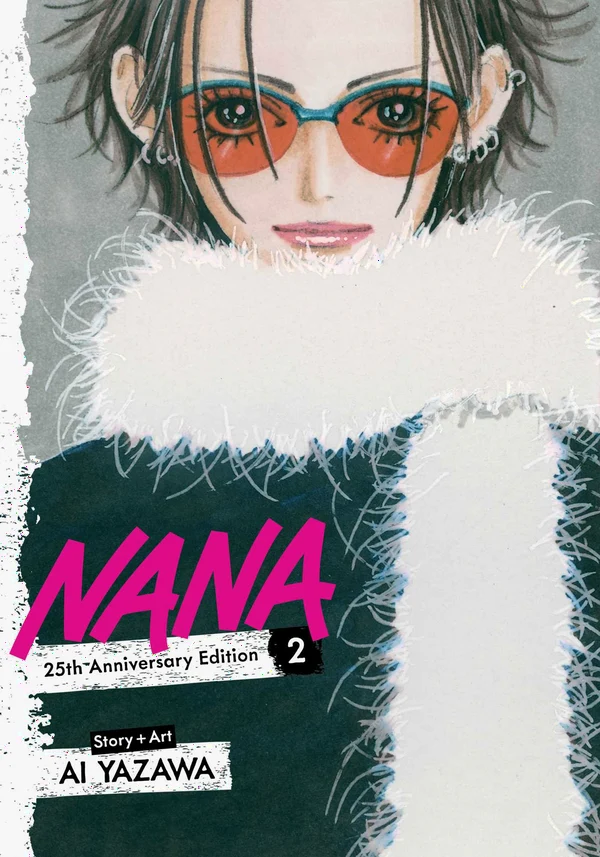
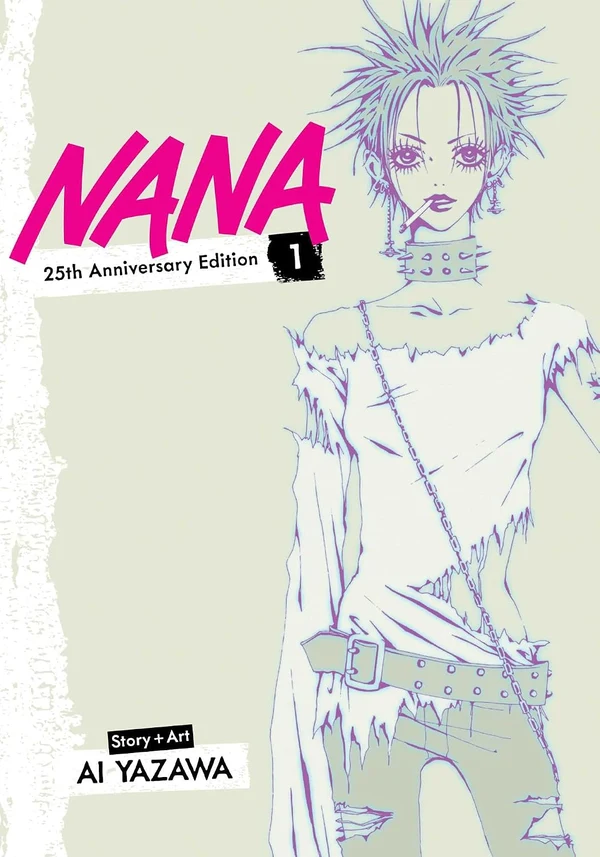
Make it a friend's issue, vary every image, and end on the letter

diff --git a/src/content.ts b/src/content.ts
@@ -6,22 +6,22 @@
  */
 export const site = {
   /** Shown in big type in the hero, the letter, the footer and the tab title. */
-  recipient: 'Sis',
+  recipient: 'Friend',
   /** A line that runs under the name. */
-  relationship: 'my sister, my first friend',
+  relationship: 'my friend, my chosen family',
   year: '2026',
   issue: 'A birthday scrapbook',
 };
 
 export const letter = {
-  greeting: 'Dear sister,',
+  greeting: 'Dear friend,',
   paragraphs: [
     'There is a particular kind of luck in finding someone who feels like a book you have read a hundred times and still dog-ear on purpose. You are that for me: the worn page, the margin note, the line I keep coming back to.',
     'So I made you a small corner of the internet. Part commonplace book, part cabinet of curiosities, entirely yours. There are poets here who say it better than I can, a fictional apothecary with a sharp tongue, a wall of ice with a warm room behind it, two girls who share a name and a heartbeat, and a stage where nobody sings quietly.',
     'Happy birthday. May this year be gentle with you. May you be a little reckless with your joy. And may you always, always know where home is.',
   ],
   closing: 'I love you more than the last page of a good book.',
-  signature: 'your sister',
+  signature: 'your friend',
   envelope: {
     to: ['the birthday girl', 'somewhere warm'],
     from: 'me, with cake',
@@ -46,8 +46,8 @@ export const quotes: Quote[] = [
     author: 'Sylvia Plath',
     source: 'The Bell Jar',
     note: 'for every morning you have to remind yourself that you are still here — and still yours.',
-    portrait: '/art/plath.webp',
-    portraitAlt: 'Sylvia Plath, smiling and holding a flower.',
+    portrait: '/art/plath-book.webp',
+    portraitAlt: 'A black-and-white portrait of Sylvia Plath.',
   },
   {
     label: 'dog-eared, no. 02',
@@ -55,7 +55,7 @@ export const quotes: Quote[] = [
     author: 'Jane Austen',
     source: 'Emma',
     note: 'the softest thing about you has always been the strongest thing about you.',
-    portrait: '/art/austen.webp',
+    portrait: '/art/austen-book.webp',
     portraitAlt: 'A portrait of Jane Austen.',
   },
   {
@@ -64,7 +64,7 @@ export const quotes: Quote[] = [
     author: 'Fyodor Dostoevsky',
     source: 'The Idiot',
     note: 'evidence: you exist.',
-    portrait: '/art/dostoevsky.webp',
+    portrait: '/art/dostoevsky-book.webp',
     portraitAlt: 'A portrait of Fyodor Dostoevsky by Vasily Perov.',
   },
 ];
@@ -171,5 +171,5 @@ export const wish = {
     'Wish received. The universe has been notified. (It’s a little scared of you.)',
   signoff:
     'Here’s to another year of you — the whole loud, tender, impossible thing.',
-  signature: 'with all my love, your sister',
+  signature: 'with all my love, your friend',
 };

diff --git a/index.html b/index.html
@@ -5,10 +5,10 @@
     <meta name="viewport" content="width=device-width, initial-scale=1.0" />
     <meta name="theme-color" content="#9b5530" />
     <meta name="robots" content="noindex, nofollow" />
-    <title>Happy Birthday, Sis — A Scrapbook</title>
+    <title>Happy Birthday, Friend — A Scrapbook</title>
     <meta
       name="description"
-      content="A birthday scrapbook of poets, apothecaries, ice walls, punk hearts, and one very bright stage — for my sister, my first friend."
+      content="A birthday scrapbook of poets, apothecaries, ice walls, punk hearts, and one very bright stage — for my friend, my chosen family."
     />
     <link rel="icon" href="/favicon.svg" type="image/svg+xml" />
     <link rel="preconnect" href="https://fonts.googleapis.com" />
@@ -18,10 +18,10 @@
       rel="stylesheet"
     />
     <meta property="og:type" content="website" />
-    <meta property="og:title" content="Happy Birthday, Sis — A Scrapbook" />
+    <meta property="og:title" content="Happy Birthday, Friend — A Scrapbook" />
     <meta
       property="og:description"
-      content="Poets, apothecaries, ice walls, punk hearts, and one very bright stage. A birthday scrapbook for my sister."
+      content="Poets, apothecaries, ice walls, punk hearts, and one very bright stage. A birthday scrapbook for my friend."
     />
     <meta property="og:image" content="/og.jpg" />
     <meta property="og:image:width" content="2400" />
@@ -33,7 +33,7 @@
     <noscript>
       <div style="min-height:100vh;display:grid;place-items:center;padding:2rem;background:#9b5530;color:#f4e8d0;font-family:Georgia,serif;text-align:center;">
         <div>
-          <p style="font-family:cursive;font-size:3rem;line-height:1;margin:0 0 1rem;">happy birthday, sis.</p>
+          <p style="font-family:cursive;font-size:3rem;line-height:1;margin:0 0 1rem;">happy birthday, friend.</p>
           <p style="max-width:28rem;line-height:1.6;margin:0 auto;">This little scrapbook needs JavaScript to turn the pages. The cake is still real. Go eat some.</p>
         </div>
       </div>

diff --git a/src/components/Hero.tsx b/src/components/Hero.tsx
@@ -5,7 +5,7 @@ const tiles = [
   { src: '/art/plath.webp', tint: '#b46b43', pos: 'center 24%' },
   { src: '/art/maomao.webp', tint: '#525d35', pos: 'center 18%' },
   { src: '/art/nana.webp', tint: '#8f302a', pos: 'center 32%' },
-  { src: '/art/alien-stage.webp', tint: '#3d6f6d', pos: 'center 32%' },
+  { src: '/art/alien-stage-hero.webp', tint: '#3d6f6d', pos: 'center 32%' },
   { src: '/art/austen.webp', tint: '#a98a5d', pos: 'center 28%' },
   { src: '/art/dostoevsky.webp', tint: '#4b2d22', pos: 'center 24%' },
 ];
@@ -31,16 +31,13 @@ export default function Hero() {
       </div>
 
       <p className="hero-v2-side" aria-hidden="true">
-        a birthday scrapbook <i>·</i> vol. 01 <i>·</i> for my sister
+        a birthday scrapbook <i>·</i> vol. 01 <i>·</i> for my friend
       </p>
 
       <div className="hero-v2-inner">
         <header className="hero-v2-head">
           <p className="hero-v2-overline">
-            <Spark /> For my sister, my first friend
-          </p>
-          <p className="hero-v2-issue">
-            Issue 01 <span>/</span> {site.year}
+            <Spark /> For {site.relationship}
           </p>
         </header>
 
@@ -84,7 +81,7 @@ export default function Hero() {
       </div>
 
       <div className="hero-v2-bottom">
-        <a className="hero-scroll" href="#letter">
+        <a className="hero-scroll" href="#book">
           <span>turn the page</span>
           <ArrowDoodle />
         </a>
@@ -94,13 +91,13 @@ export default function Hero() {
             <i>✦</i>
             <span>another trip around the sun</span>
             <i>✦</i>
-            <span>for my sister, my first friend</span>
+            <span>for my friend, my chosen family</span>
             <i>✦</i>
             <span>happy birthday</span>
             <i>✦</i>
             <span>another trip around the sun</span>
             <i>✦</i>
-            <span>for my sister, my first friend</span>
+            <span>for my friend, my chosen family</span>
             <i>✦</i>
           </div>
         </div>

diff --git a/src/components/Letter.tsx b/src/components/Letter.tsx
@@ -1,21 +1,22 @@
 import { letter, site } from '../content';
-import { WaxSeal } from './Ornaments';
+import { TornEdge, WaxSeal } from './Ornaments';
 
 export default function Letter() {
   return (
     <section className="letter-v2" id="letter">
+      <TornEdge color="var(--rust)" />
       <div className="letter-v2-photo">
         <img
-          src="/art/plath.webp"
-          alt="Sylvia Plath, smiling and holding a flower."
-          width="720"
-          height="900"
+          src="/art/plath-letter.webp"
+          alt="Sylvia Plath sitting on a stone wall, reading."
+          width="900"
+          height="885"
           loading="lazy"
         />
         <div className="letter-v2-wash" aria-hidden="true" />
 
         <p className="letter-v2-folio">
-          01 <span>/ the letter</span>
+          P.S. <span>/ the letter</span>
         </p>
 
         <blockquote className="letter-v2-photoquote">
@@ -34,8 +35,8 @@ export default function Letter() {
 
       <article className="letter-v2-paper">
         <header className="letter-v2-head">
-          <p className="kicker">01 — the letter</p>
-          <p className="letter-v2-meta">from my desk to yours · no. 01</p>
+          <p className="kicker">P.S. — the letter</p>
+          <p className="letter-v2-meta">the last word · after the cake</p>
         </header>
 
         <p className="letter-v2-date">on your birthday · {site.year}</p>
@@ -50,7 +51,7 @@ export default function Letter() {
 
         <p className="letter-v2-closing">{letter.closing}</p>
         <p className="letter-v2-signature">{letter.signature}</p>
-        <p className="letter-v2-ps">P.S. there is cake at the end. scroll responsibly.</p>
+        <p className="letter-v2-ps">P.P.S. I hope you saved me a slice of cake.</p>
 
         <WaxSeal className="letter-v2-seal" />
       </article>

diff --git a/src/components/Nana.tsx b/src/components/Nana.tsx
@@ -6,7 +6,7 @@ export default function Nana() {
     <section className="nana-v2" id="zine">
       <div className="nana-v2-paper">
         <header className="nana-v2-head">
-          <p className="kicker">05 — the zine</p>
+          <p className="kicker">04 — the zine</p>
           <p className="nana-v2-meta">{nana.reference}</p>
         </header>
 
@@ -75,10 +75,10 @@ export default function Nana() {
       <div className="nana-v2-photo">
         <img
           className="nana-v2-photo-bg"
-          src="/art/nana-print.webp"
-          alt="A halftone print of Nana Osaki and Nana Komatsu sharing a strawberry."
-          width="1000"
-          height="563"
+          src="/art/nana-photo.webp"
+          alt="A halftone print of Nana Osaki and Nana Komatsu on a Nana manga cover."
+          width="700"
+          height="1094"
           loading="lazy"
         />
         <div className="nana-v2-photo-wash" aria-hidden="true" />
@@ -105,12 +105,12 @@ export default function Nana() {
           <Tape className="tape--nana-cover-v2" />
           <img
             src="/art/nana-cover.webp"
-            alt="Nana Osaki on the cover of the Nana 25th anniversary edition, volume 2."
+            alt="Nana Osaki on the Nana 25th-anniversary edition cover, volume 1."
             width="600"
             height="857"
             loading="lazy"
           />
-          <figcaption>the original, vol. 02</figcaption>
+          <figcaption>the original, vol. 01</figcaption>
         </figure>
 
         <div className="setlist-card nana-v2-setlist">

diff --git a/src/components/Footer.tsx b/src/components/Footer.tsx
@@ -4,7 +4,7 @@ import { Spark, Tape, TornEdge } from './Ornaments';
 export default function Footer() {
   return (
     <footer className="footer">
-      <TornEdge color="var(--rust)" />
+      <TornEdge color="var(--paper-3)" />
       <div className="footer-ghost" aria-hidden="true" />
       <div className="container">
         <div className="footer-top">
@@ -32,7 +32,7 @@ export default function Footer() {
             made with love, tape, and a little bit of chaos
             <span> · {site.year}</span>
           </p>
-          <p className="footer-note">for my sister, my first friend</p>
+          <p className="footer-note">for my friend, my chosen family</p>
 
           <details className="credits">
             <summary>art, references &amp; a note on copyright</summary>

diff --git a/src/components/Nav.tsx b/src/components/Nav.tsx
@@ -2,17 +2,17 @@ import { useEffect, useState } from 'react';
 import { site } from '../content';
 
 const chapters = [
-  { id: 'letter', label: 'The Letter' },
   { id: 'book', label: 'The Book' },
   { id: 'garden', label: 'The Garden' },
   { id: 'wall', label: 'The Wall' },
   { id: 'zine', label: 'The Zine' },
   { id: 'stage', label: 'The Stage' },
   { id: 'wish', label: 'The Wish' },
+  { id: 'letter', label: 'The Letter' },
 ];
 
 export default function Nav() {
-  const [active, setActive] = useState('letter');
+  const [active, setActive] = useState('');
   const [scrolled, setScrolled] = useState(false);
   const [open, setOpen] = useState(false);
 

diff --git a/src/components/Stage.tsx b/src/components/Stage.tsx
@@ -67,7 +67,7 @@ export default function Stage() {
 
       <div className="stage-v2-inner">
         <header className="stage-v2-head">
-          <p className="kicker">06 — the stage</p>
+          <p className="kicker">05 — the stage</p>
           <div className="stage-v2-head-right">
             <p className="stage-v2-meta">{stageContent.reference}</p>
             <p className="stage-v2-tagline">{stageContent.tagline}</p>

diff --git a/src/components/Ornaments.tsx b/src/components/Ornaments.tsx
@@ -180,7 +180,7 @@ export function StarStamp({ className = '' }: { className?: string }) {
         fontSize="8"
         letterSpacing="2.4"
       >
-        FOR MY SISTER
+        FOR MY FRIEND
       </text>
     </svg>
   );
@@ -208,7 +208,7 @@ export function WaxSeal({ className = '' }: { className?: string }) {
         fontSize="27"
         fontStyle="italic"
       >
-        S
+        F
       </text>
     </svg>
   );

diff --git a/src/components/Commonplace.tsx b/src/components/Commonplace.tsx
@@ -5,7 +5,7 @@ export default function Commonplace() {
     <section className="book-v2" id="book">
       <div className="book-v2-intro">
         <div className="book-v2-topline">
-          <p className="kicker">02 — the commonplace book</p>
+          <p className="kicker">01 — the commonplace book</p>
           <p className="book-v2-meta">three writers · dog-eared &amp; underlined</p>
         </div>
 

diff --git a/src/components/Apothecary.tsx b/src/components/Apothecary.tsx
@@ -58,7 +58,7 @@ export default function Apothecary() {
 
       <div className="apo-v2-inner">
         <header className="apo-v2-head">
-          <p className="kicker">03 — the apothecary</p>
+          <p className="kicker">02 — the apothecary</p>
           <p className="apo-v2-meta">{apothecary.reference}</p>
         </header>
 

diff --git a/src/components/Wish.tsx b/src/components/Wish.tsx
@@ -69,7 +69,7 @@ export default function Wish() {
 
       <div className="wish-v2-inner">
         <header className="wish-v2-head">
-          <p className="kicker">07 — the wish</p>
+          <p className="kicker">06 — the wish</p>
           <p className="wish-v2-meta">the last page (for now)</p>
         </header>
 
